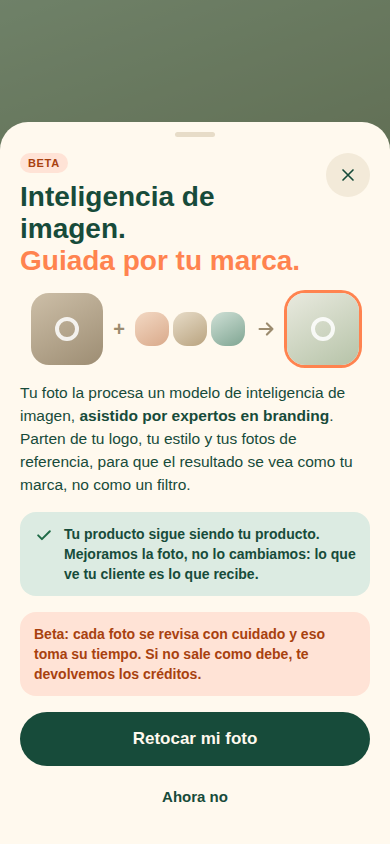
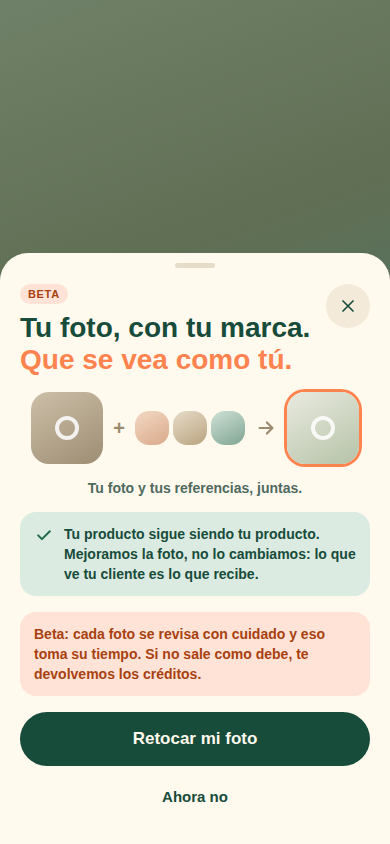
docs: bienvenida del retoque más corta y sin tecnicismos
Claude-Session: https://claude.ai/code/session_011XSPzTrfPeuedtSUdGsZPX

Changed region(s): [[0.0, 0.1232, 1.0, 0.5853]]

diff --git a/referencias/mi-marca/Bienvenida.dc.html b/referencias/mi-marca/Bienvenida.dc.html
@@ -28,12 +28,12 @@ body{margin:0}*{box-sizing:border-box}
  <div style="display:flex;justify-content:center;"><span style="width:40px;height:5px;border-radius:999px;background:#e7dcc8;"></span></div>
  <div style="display:flex;align-items:flex-start;justify-content:space-between;gap:12px;">
   <div><span class="beta">Beta</span>
-   <h2 class="f" style="margin:8px 0 0;font-size:28px;line-height:32px;">Inteligencia de imagen.</h2>
-   <div class="f" style="font-size:28px;line-height:32px;color:#ff834f;">Guiada por tu marca.</div></div>
+   <h2 class="f" style="margin:8px 0 0;font-size:28px;line-height:32px;">Tu foto, con tu marca.</h2>
+   <div class="f" style="font-size:28px;line-height:32px;color:#ff834f;">Que se vea como tú.</div></div>
   <button type="button" aria-label="Cerrar" style="width:44px;height:44px;flex-shrink:0;border-radius:999px;border:none;background:#f3ead9;display:flex;align-items:center;justify-content:center;"><svg width="20" height="20" viewBox="0 0 24 24" fill="none" stroke="#174b3a" stroke-width="2" stroke-linecap="round"><path d="M6 6l12 12M18 6L6 18"/></svg></button>
  </div>
  <div style="display:flex;align-items:center;justify-content:center;gap:10px;"><div style="width:72px;height:72px;border-radius:18px;background:linear-gradient(150deg,#cdbfa8,#9d8d73);display:flex;align-items:center;justify-content:center;"><div style="width:24px;height:24px;border-radius:999px;border:4px solid rgba(255,255,255,.85);"></div></div><span style="font:800 20px 'Figtree',sans-serif;color:#9c8b6e;">+</span><div style="display:flex;gap:4px;"><div class="ph" style="width:34px;height:34px;background:linear-gradient(150deg,#f3d9c4,#d9a98a);flex-shrink:0;"></div><div class="ph" style="width:34px;height:34px;background:linear-gradient(150deg,#e7dcc8,#b9a37f);flex-shrink:0;"></div><div class="ph" style="width:34px;height:34px;background:linear-gradient(150deg,#cfe0d6,#7fa592);flex-shrink:0;"></div></div><svg width="22" height="22" viewBox="0 0 24 24" fill="none" stroke="#9c8b6e" stroke-width="2.4" stroke-linecap="round" stroke-linejoin="round" style="flex-shrink:0"><path d="M5 12h14M13 6l6 6-6 6"/></svg><div style="width:72px;height:72px;border-radius:18px;background:linear-gradient(150deg,#e9eadf,#b6c3a8);display:flex;align-items:center;justify-content:center;box-shadow:0 0 0 3px #ff834f;"><div style="width:24px;height:24px;border-radius:999px;border:4px solid rgba(255,255,255,.85);"></div></div></div>
- <div style="font-size:15.5px;line-height:23px;">Tu foto la procesa un modelo de inteligencia de imagen, <b>asistido por expertos en branding</b>. Parten de tu logo, tu estilo y tus fotos de referencia, para que el resultado se vea como tu marca, no como un filtro.</div>
+ <div style="text-align:center;font-size:14px;color:#4f6a5e;font-weight:600;">Tu foto y tus referencias, juntas.</div>
  <div style="background:#dcebe2;border-radius:16px;padding:12px 14px;display:flex;gap:10px;align-items:flex-start;"><svg width="20" height="20" viewBox="0 0 24 24" fill="none" stroke="#1f6b47" stroke-width="2.4" stroke-linecap="round" stroke-linejoin="round" style="flex-shrink:0;margin-top:1px;"><path d="M5 12.5l4.5 4.5L19 7.5"/></svg><span style="font-size:14px;line-height:20px;font-weight:600;">Tu producto sigue siendo tu producto. Mejoramos la foto, no lo cambiamos: lo que ve tu cliente es lo que recibe.</span></div>
  <div style="background:#ffe3d6;border-radius:16px;padding:12px 14px;font-size:14px;line-height:20px;font-weight:600;color:#a8410f;">Beta: cada foto se revisa con cuidado y eso toma su tiempo. Si no sale como debe, te devolvemos los créditos.</div>
  <div style="display:flex;flex-direction:column;gap:6px;"><button type="button" class="btn">Retocar mi foto</button><button type="button" style="height:48px;border:none;background:none;color:#174b3a;font:800 15px 'Figtree',sans-serif;">Ahora no</button></div>

diff --git a/referencias/retoque-beta/Ficha.dc.html b/referencias/retoque-beta/Ficha.dc.html
@@ -24,7 +24,7 @@ body{margin:0}*{box-sizing:border-box}
     <div><h2 class="f" style="margin:0;font-size:26px;line-height:30px;">Tobillera Arena</h2><div style="font-size:14.5px;color:#4f6a5e;margin-top:2px;">Bisutería · 1 en stock</div></div>
     <div style="background:#fff;border:1.5px solid #efe4d2;border-radius:20px;padding:14px 16px;display:flex;flex-direction:column;gap:6px;">
       <div style="display:flex;align-items:center;gap:8px;"><b style="font-size:16px;">Foto del producto</b><span class="beta">Beta</span></div>
-      <span style="font-size:14px;line-height:20px;color:#4f6a5e;">Inteligencia de imagen guiada por tu marca. Cuesta 5 créditos.</span>
+      <span style="font-size:14px;line-height:20px;color:#4f6a5e;">Se retoca con tu marca como guía. Cuesta 5 créditos.</span>
     </div>
     <button type="button" style="min-height:54px;border-radius:999px;border:none;background:#174b3a;color:#fff9ee;font:800 17px 'Figtree',sans-serif;display:flex;align-items:center;justify-content:center;gap:10px;cursor:pointer;">Retocar foto <span class="beta on">Beta</span></button>
     <a href="#" style="font-size:14.5px;font-weight:800;text-align:center;min-height:44px;display:flex;align-items:center;justify-content:center;color:#174b3a;">Cómo funciona</a>

diff --git a/referencias/mi-marca/LEEME.md b/referencias/mi-marca/LEEME.md
@@ -4,7 +4,7 @@
 |---|---|
 | `MiMarca` | Pantalla «Mi marca» completa: logo, Instagram, «Tu marca en 3 palabras», 3 a 6 fotos de referencia y «Lo que no quiero» (opcional). Estado «Tu marca está lista para el taller.» |
 | `MiMarcaVacia` | Misma pantalla vacía, con el aviso de que faltan 3 fotos y la tarjeta «¿Todavía no tienes marca?» (paquete «Marca y diseño», RD$5,000 editable con descuentos desde el admin). |
-| `Bienvenida` | Hoja que sale la primera vez que se toca «Retocar» (y desde un enlace «Cómo funciona»): «Inteligencia de imagen. *Guiada por tu marca.*», el dibujo foto + referencias → resultado, el texto «modelo de inteligencia de imagen asistido por expertos en branding», la franja de honestidad y la nota Beta. Botones «Retocar mi foto» y «Ahora no». |
+| `Bienvenida` | Hoja corta que sale la primera vez que se toca «Retocar» (y desde un enlace «Cómo funciona»): «Tu foto, con tu marca. *Que se vea como tú.*», el dibujo foto + referencias → resultado, la franja verde de honestidad y la nota Beta en rojo. Botones «Retocar mi foto» y «Ahora no». Sin párrafos ni palabras técnicas. |
 | `AdminFoto` | En el admin, el pedido de retoque con la marca de la tienda al lado (referencias, 3 palabras, lo que no quiere, Instagram) y el botón «Copiar instrucciones». |
 
 En la bienvenida real, el dibujo usa **la foto del producto que se va a retocar** y **las referencias de la tienda**. Aquí son colores de ejemplo. **No son código para copiar**: se construye con `components/ui/` y los tokens del panel (docs/09). Las letras salen con fuente de reemplazo; las de verdad son Fredoka, Figtree y Caveat.

diff --git a/docs/prompts/retoque-beta-y-tienda-de-ensayo.md b/docs/prompts/retoque-beta-y-tienda-de-ensayo.md
@@ -20,7 +20,7 @@ El retoque **no es automático**. Un modelo de inteligencia de imagen procesa la
 
 ## 3. Textos del retoque (sin pantalla de bienvenida)
 
-- En la ficha, bajo el título de la foto: «Inteligencia de imagen guiada por tu marca. Cuesta 5 créditos.»
+- En la ficha, bajo el título de la foto: «Se retoca con tu marca como guía. Cuesta 5 créditos.»
 - En el taller: «Tu foto está en proceso, con tu marca como guía. Reservamos 5 créditos; se cobran cuando esté lista.» y, en Caveat, «Hecho con criterio de marca.»
 - Si hay un tiempo estimado, ponlo en una constante de `lib/config.ts` (`TIEMPO_RETOQUE_TEXTO`) y no lo muestres si está vacía. **No inventes un número**; Lewis lo fija.
 - **No** hagas pantalla de bienvenida ni enlace «Cómo funciona»: vienen después con Mi marca.
